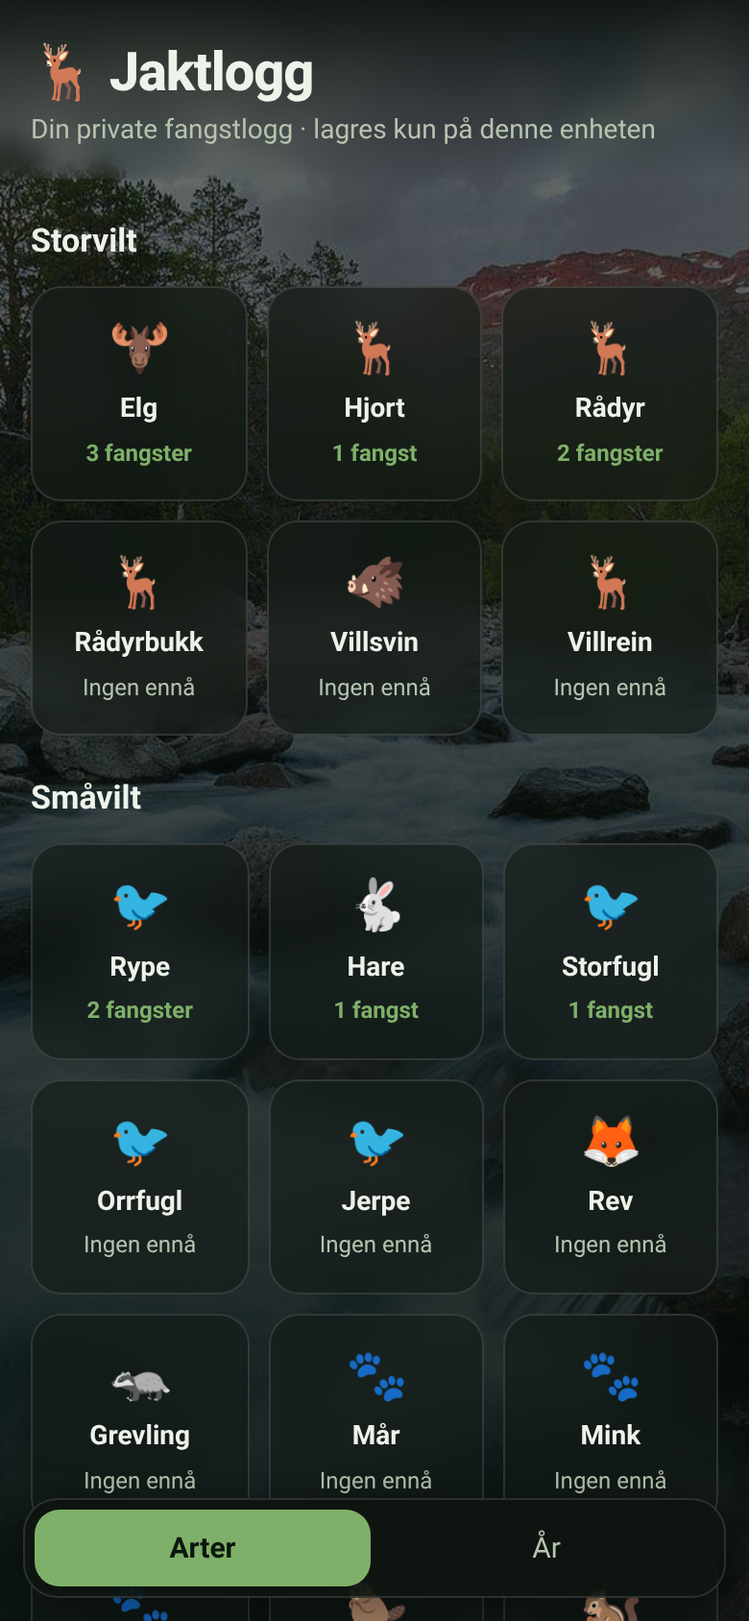
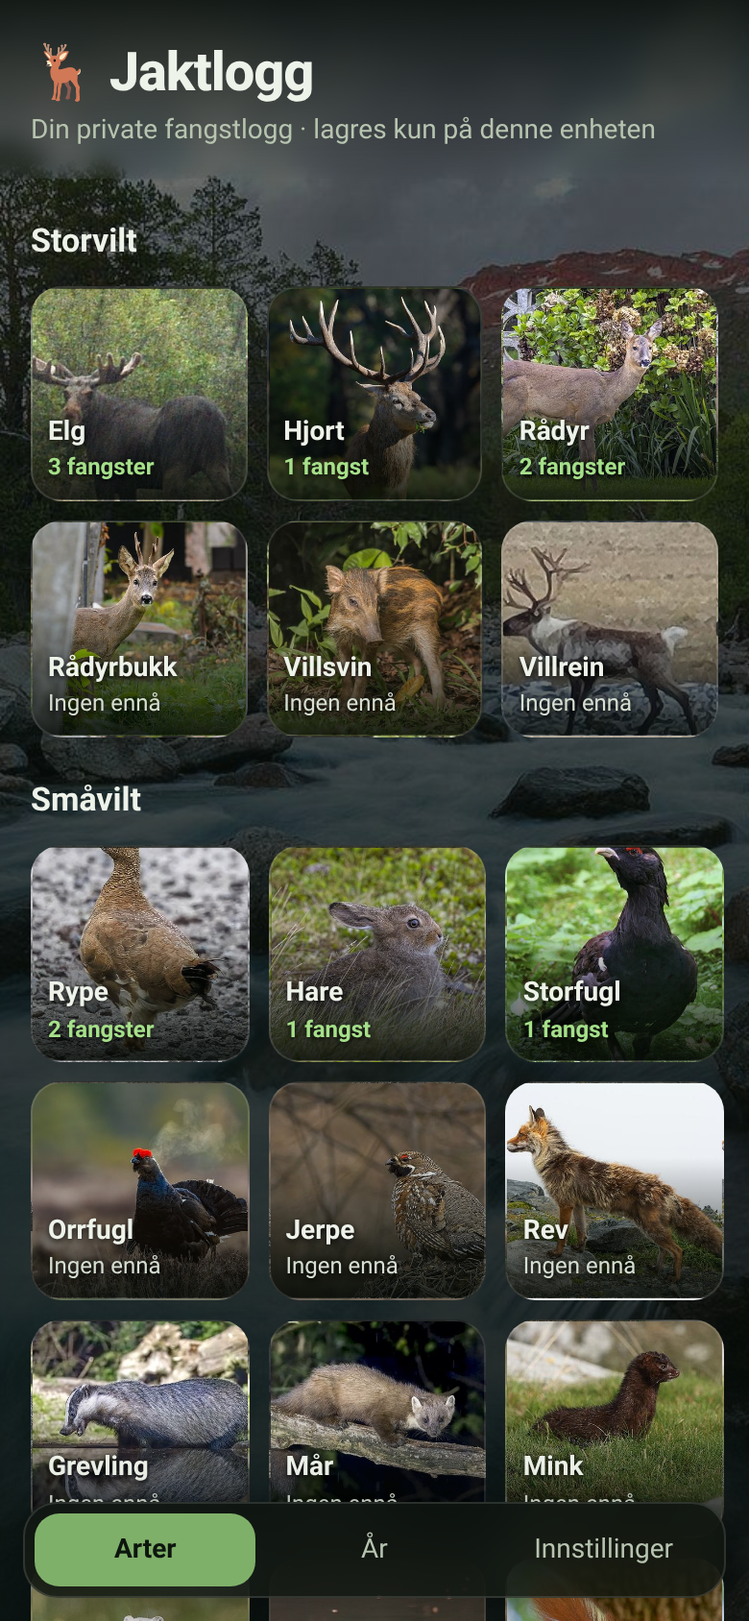
Ekte artsbilder med kreditter, valgfri privat Supabase-lagring (magic link, RLS, privat bildebøtte), Innstillinger og skjermbilder 08-10

diff --git a/index.html b/index.html
@@ -50,16 +50,19 @@ input[type=file]{padding:10px}input[type=date]{color-scheme:dark}
 .maprow{display:flex;gap:8px;margin-top:8px;align-items:center}.maprow .btn{width:auto;padding:9px 12px;font-size:14px}.maprow small{color:var(--m);font-size:12px;flex:1}
 .emk{font-size:22px;line-height:30px;text-align:center;background:rgba(14,20,15,.85);border:2px solid var(--g);border-radius:50%;width:34px!important;height:34px!important}
 .leaflet-popup-content{margin:8px;color:#111}.leaflet-popup-content img{width:150px;border-radius:8px;display:block;margin-bottom:4px}
+.tile.pic{aspect-ratio:1;background-size:cover;background-position:center;display:flex;flex-direction:column;justify-content:flex-end;padding:8px;text-align:left}
+.tile.pic b{margin:0;text-shadow:0 1px 3px #000}.tile.pic small{text-shadow:0 1px 3px #000;color:#d6dfd2}.tile.has.pic small{color:#a6e08a}
+.tile:not(.pic){aspect-ratio:1;display:flex;flex-direction:column;justify-content:center}.tabs button{font-size:14px;padding:11px 6px}
 </style></head><body><div class="app">
 <header><h1>🦌 Jaktlogg</h1><div class="sub" id="hsub">Din private fangstlogg · lagres kun på denne enheten</div></header>
 <main id="view"></main>
-<p class="credit">Bakgrunn: «River in the heart of Trollheimen mountains», Jakub Fryš, <a href="https://commons.wikimedia.org/wiki/File:River_in_the_heart_of_Trollheimen_mountains.jpg">Wikimedia Commons</a>, <a href="https://creativecommons.org/licenses/by-sa/4.0/">CC BY-SA 4.0</a></p>
-<nav class="tabs"><button id="t-arter" class="on">Arter</button><button id="t-ar">År</button></nav>
+<p class="credit"><a href="#" id="cr">Bildekreditter</a> · Bakgrunn: «River in the heart of Trollheimen mountains», Jakub Fryš, <a href="https://commons.wikimedia.org/wiki/File:River_in_the_heart_of_Trollheimen_mountains.jpg">Wikimedia Commons</a>, <a href="https://creativecommons.org/licenses/by-sa/4.0/">CC BY-SA 4.0</a></p>
+<nav class="tabs"><button id="t-arter" class="on">Arter</button><button id="t-ar">År</button><button id="t-inn">Innstillinger</button></nav>
 </div>
 <div class="modal" id="m"><div class="sheet" id="detail"></div></div>
 <script>
 /* ---------- Lagring: privat, på enheten (IndexedDB) ---------- */
-const Store={_db:null,
+const LocalStore={_db:null,
  open(){return this._db||(this._db=new Promise((ok,err)=>{const r=indexedDB.open('jaktlogg',1);r.onupgradeneeded=()=>r.result.createObjectStore('entries',{keyPath:'id'});r.onsuccess=()=>ok(r.result);r.onerror=()=>err(r.error)}))},
  async _tx(mode,fn){const db=await this.open();return new Promise((ok,err)=>{const t=db.transaction('entries',mode),s=t.objectStore('entries'),r=fn(s);t.oncomplete=()=>ok(r&&r.result);t.onerror=()=>err(t.error)})},
  list(){return this._tx('readonly',s=>s.getAll()).then(a=>a||[])},
@@ -83,15 +86,15 @@ function topo(el,opt){const m=L.map(el,Object.assign({zoomControl:true},opt||{})
  return m}
 const NORGE=[[57.9,4.5],[71.2,31.1]];
 const icon=sp=>L.divIcon({className:'emk',html:EMO[sp]||'📍',iconSize:[34,34],iconAnchor:[17,17]});
-let tab='arter',yearSel=null,group='art',pending=[];
+var SLUG,CREDITS;let tab='arter',yearSel=null,group='art',pending=[];
 
-function setTab(t){tab=t;$('t-arter').classList.toggle('on',t==='arter');$('t-ar').classList.toggle('on',t==='ar');t==='arter'?renderArter():renderAr()}
+function setTab(t){tab=t;['arter','ar','inn'].forEach(x=>$('t-'+x).classList.toggle('on',x===t));$('hsub').textContent=modeText();(t==='arter'?renderArter:t==='ar'?renderAr:renderSettings)()}
 $('t-arter').onclick=()=>setTab('arter');$('t-ar').onclick=()=>setTab('ar');
 
 async function renderArter(){const all=await Store.list(),c={};all.forEach(e=>c[e.species]=(c[e.species]||0)+1);
  const known=new Set(GROUPS.flatMap(g=>g[1].map(x=>x[0])));const other=all.filter(e=>!known.has(e.species)).length;
  $('view').innerHTML=GROUPS.map(([g,list])=>`<h2>${g}</h2><div class="tiles">`+list.map(([n,e])=>{const k=n==='Annet'?other:(c[n]||0);
-  return `<button class="tile ${k?'has':''}" data-s="${n}"><div class="e">${e}</div><b>${n}</b><small>${k?k+' fangst'+(k>1?'er':''):'Ingen ennå'}</small></button>`}).join('')+'</div>').join('');
+  const sl=SLUG[n];return `<button class="tile ${k?'has':''} ${sl?'pic':''}" data-s="${n}" ${sl?`style="background-image:linear-gradient(180deg,rgba(0,0,0,0) 35%,rgba(5,10,6,.88)),url(assets/species/${sl}.jpg)"`:''}>${sl?'':`<div class="e">${e}</div>`}<b>${n}</b><small>${k?k+' fangst'+(k>1?'er':''):'Ingen ennå'}</small></button>`}).join('')+'</div>').join('');
  document.querySelectorAll('.tile').forEach(t=>t.onclick=()=>renderSpecies(t.dataset.s));scrollTo(0,0)}
 
 async function renderSpecies(sp){const known=new Set(GROUPS.flatMap(g=>g[1].map(x=>x[0])));
@@ -162,5 +165,69 @@ async function renderAr(){const all=await Store.list();const years=[...new Set(a
   pts.length?ym.fitBounds(L.latLngBounds(pts.map(x=>[x.lat,x.lng])).pad(.3),{maxZoom:11}):ym.fitBounds(NORGE);
   $('ynote').textContent=`${pts.length} av ${e.length} fangster har kartposisjon`}}
 
-Store.migrate().then(renderArter);
+SLUG={'Elg':'elg','Hjort':'hjort','Rådyr':'radyr','Rådyrbukk':'radyrbukk','Villsvin':'villsvin','Villrein':'villrein','Rype':'rype','Hare':'hare','Storfugl':'storfugl','Orrfugl':'orrfugl','Jerpe':'jerpe','Rev':'rev','Grevling':'grevling','Mår':'mar','Mink':'mink','Røyskatt':'royskatt','Bever':'bever','Ekorn':'ekorn','Ender':'ender','Gjess':'gjess','Ærfugl':'aerfugl','Skarv':'skarv','Ringdue':'ringdue','Rugde':'rugde','Enkeltbekkasin':'enkeltbekkasin','Kråkefugler':'kraakefugler','Måker':'maker','Gråtrost':'graatrost','Fasan':'fasan'};
+CREDITS=[{"n": "Elg", "f": "assets/species/elg.jpg", "a": "Ryan Hodnett", "l": "CC BY-SA 4.0", "lu": "https://creativecommons.org/licenses/by-sa/4.0", "u": "https://commons.wikimedia.org/wiki/File:European_Elk_(Europeisk_Elg)_(Alces_alces_alces)_-_Bod%C3%B8,_Norway_2023-07-16.jpg", "t": "European Elk (Europeisk Elg) (Alces alces alces) - Bodø, Norway 2023-07-16.jpg"}, {"n": "Hjort", "f": "assets/species/hjort.jpg", "a": "Julian Herzog (Website)", "l": "CC BY 4.0", "lu": "https://creativecommons.org/licenses/by/4.0", "u": "https://commons.wikimedia.org/wiki/File:Red_Deer_Cervus_Elaphus_Richmond_Park_2025_01.jpg", "t": "Red Deer Cervus Elaphus Richmond Park 2025 01.jpg"}, {"n": "Rådyr", "f": "assets/species/radyr.jpg", "a": "Charles J. Sharp", "l": "CC BY-SA 4.0", "lu": "https://creativecommons.org/licenses/by-sa/4.0", "u": "https://commons.wikimedia.org/wiki/File:Roe_deer_(Capreolus_capreolus)_female_Cumnor.jpg", "t": "Roe deer (Capreolus capreolus) female Cumnor.jpg"}, {"n": "Rådyrbukk", "f": "assets/species/radyrbukk.jpg", "a": "Uoaei1", "l": "CC BY-SA 4.0", "lu": "https://creativecommons.org/licenses/by-sa/4.0", "u": "https://commons.wikimedia.org/wiki/File:Capreolus_capreolus_Wien_Zentralfriedhof_20221021_06.jpg", "t": "Capreolus capreolus Wien Zentralfriedhof 20221021 06.jpg"}, {"n": "Villsvin", "f": "assets/species/villsvin.jpg", "a": "Charles J. Sharp", "l": "CC BY-SA 4.0", "lu": "https://creativecommons.org/licenses/by-sa/4.0", "u": "https://commons.wikimedia.org/wiki/File:Wild_boar_(Sus_scrofa_vittatus)_juvenile.jpg", "t": "Wild boar (Sus scrofa vittatus) juvenile.jpg"}, {"n": "Villrein", "f": "assets/species/villrein.jpg", "a": "Pentti Impiö", "l": "CC BY 4.0", "lu": "https://creativecommons.org/licenses/by/4.0", "u": "https://commons.wikimedia.org/wiki/File:Rangifer_tarandus_fennicus_245142390.jpg", "t": "Rangifer tarandus fennicus 245142390.jpg"}, {"n": "Rype", "f": "assets/species/rype.jpg", "a": "Charles J. Sharp", "l": "CC BY-SA 4.0", "lu": "https://creativecommons.org/licenses/by-sa/4.0", "u": "https://commons.wikimedia.org/wiki/File:Rock_ptarmigan_(Lagopus_muta_islandorum)_female_breeding_Botnsvatn.jpg", "t": "Rock ptarmigan (Lagopus muta islandorum) female breeding Botnsvatn.jpg"}, {"n": "Hare", "f": "assets/species/hare.jpg", "a": "Charles J. Sharp", "l": "CC BY-SA 4.0", "lu": "https://creativecommons.org/licenses/by-sa/4.0", "u": "https://commons.wikimedia.org/wiki/File:Mountain_hare_(Lepus_timidus)_Oppdal.jpg", "t": "Mountain hare (Lepus timidus) Oppdal.jpg"}, {"n": "Storfugl", "f": "assets/species/storfugl.jpg", "a": "Richard Bartz, Munich aka Makro Freak", "l": "CC BY-SA 2.5", "lu": "https://creativecommons.org/licenses/by-sa/2.5", "u": "https://commons.wikimedia.org/wiki/File:Tetrao_urogallus_Richard_Bartz.jpg", "t": "Tetrao urogallus Richard Bartz.jpg"}, {"n": "Orrfugl", "f": "assets/species/orrfugl.jpg", "a": "Spjutkastare", "l": "CC BY-SA 4.0", "lu": "https://creativecommons.org/licenses/by-sa/4.0", "u": "https://commons.wikimedia.org/wiki/File:Orrtuppen.jpg", "t": "Orrtuppen.jpg"}, {"n": "Jerpe", "f": "assets/species/jerpe.jpg", "a": "Chinmay Rahane", "l": "CC BY-SA 4.0", "lu": "https://creativecommons.org/licenses/by-sa/4.0", "u": "https://commons.wikimedia.org/wiki/File:Hazel_Grouse.jpg", "t": "Hazel Grouse.jpg"}, {"n": "Rev", "f": "assets/species/rev.jpg", "a": "Uoaei1", "l": "CC BY-SA 4.0", "lu": "https://creativecommons.org/licenses/by-sa/4.0", "u": "https://commons.wikimedia.org/wiki/File:Vulpes_vulpes_Mallnitz_01.jpg", "t": "Vulpes vulpes Mallnitz 01.jpg"}, {"n": "Grevling", "f": "assets/species/grevling.jpg", "a": "Charles J. Sharp", "l": "CC BY-SA 4.0", "lu": "https://creativecommons.org/licenses/by-sa/4.0", "u": "https://commons.wikimedia.org/wiki/File:European_badger_(Meles_meles_taxus)_Drenthe_2.jpg", "t": "European badger (Meles meles taxus) Drenthe 2.jpg"}, {"n": "Mår", "f": "assets/species/mar.jpg", "a": "Charles J. Sharp", "l": "CC BY-SA 4.0", "lu": "https://creativecommons.org/licenses/by-sa/4.0", "u": "https://commons.wikimedia.org/wiki/File:European_pine_marten_(Martes_martes)_Drenthe_2.jpg", "t": "European pine marten (Martes martes) Drenthe 2.jpg"}, {"n": "Mink", "f": "assets/species/mink.jpg", "a": "Marton Berntsen", "l": "CC BY-SA 3.0", "lu": "https://creativecommons.org/licenses/by-sa/3.0", "u": "https://commons.wikimedia.org/wiki/File:Mink_(Neovison_vison).jpg", "t": "Mink (Neovison vison).jpg"}, {"n": "Røyskatt", "f": "assets/species/royskatt.jpg", "a": "Giles Laurent", "l": "CC BY-SA 4.0", "lu": "https://creativecommons.org/licenses/by-sa/4.0", "u": "https://commons.wikimedia.org/wiki/File:035_Stoat_in_winter_coat_in_Parc_naturel_r%C3%A9gional_Jura_vaudois_Photo_by_Giles_Laurent.jpg", "t": "035 Stoat in winter coat in Parc naturel régional Jura vaudois Photo by Giles Laurent.jpg"}, {"n": "Bever", "f": "assets/species/bever.jpg", "a": "Ryzhkov Sergey", "l": "CC BY-SA 4.0", "lu": "https://creativecommons.org/licenses/by-sa/4.0", "u": "https://commons.wikimedia.org/wiki/File:%D0%A0%D1%96%D1%87%D0%BA%D0%BE%D0%B2%D0%B8%D0%B9_%D0%B1%D0%BE%D0%B1%D0%B5%D1%80_(Castor_fiber).jpg", "t": "Річковий бобер (Castor fiber).jpg"}, {"n": "Ekorn", "f": "assets/species/ekorn.jpg", "a": "Rhododendrites", "l": "CC BY-SA 4.0", "lu": "https://creativecommons.org/licenses/by-sa/4.0", "u": "https://commons.wikimedia.org/wiki/File:Red_squirrel_(21808).jpg", "t": "Red squirrel (21808).jpg"}, {"n": "Ender", "f": "assets/species/ender.jpg", "a": "This picture was realized by Richard Bartz by using a Canon EF 70-300mm f/4-5.6 IS USM Lens", "l": "CC BY-SA 2.5", "lu": "https://creativecommons.org/licenses/by-sa/2.5", "u": "https://commons.wikimedia.org/wiki/File:Anas_platyrhynchos_male_female.jpg", "t": "Anas platyrhynchos male female.jpg"}, {"n": "Gjess", "f": "assets/species/gjess.jpg", "a": "H005, denoised by Pro2", "l": "Public domain", "lu": "", "u": "https://commons.wikimedia.org/wiki/File:Graugans_Anser_Anser.jpg", "t": "Graugans Anser Anser.jpg"}, {"n": "Ærfugl", "f": "assets/species/aerfugl.jpg", "a": "Stephan Sprinz", "l": "CC BY 4.0", "lu": "https://creativecommons.org/licenses/by/4.0", "u": "https://commons.wikimedia.org/wiki/File:Portrait_einer_m%C3%A4nnlichen_Eiderente_(Somateria_mollissima)_auf_Norderney.jpg", "t": "Portrait einer männlichen Eiderente (Somateria mollissima) auf Norderney.jpg"}, {"n": "Skarv", "f": "assets/species/skarv.jpg", "a": "Christian Ferrer", "l": "CC BY-SA 4.0", "lu": "https://creativecommons.org/licenses/by-sa/4.0", "u": "https://commons.wikimedia.org/wiki/File:Phalacrocorax_carbo,_H%C3%A9rault_River_cf01.jpg", "t": "Phalacrocorax carbo, Hérault River cf01.jpg"}, {"n": "Ringdue", "f": "assets/species/ringdue.jpg", "a": "Alexis LOURS", "l": "CC BY 2.0", "lu": "https://creativecommons.org/licenses/by/2.0", "u": "https://commons.wikimedia.org/wiki/File:Common_Wood_Pigeon_facing_left.jpg", "t": "Common Wood Pigeon facing left.jpg"}, {"n": "Rugde", "f": "assets/species/rugde.jpg", "a": "Stephan Sprinz", "l": "CC BY-SA 4.0", "lu": "https://creativecommons.org/licenses/by-sa/4.0", "u": "https://commons.wikimedia.org/wiki/File:Waldschnepfe_(scolopax_rusticola)_-_Spiekeroog,_Nationalpark_Nieders%C3%A4chsisches_Wattenmeer.jpg", "t": "Waldschnepfe (scolopax rusticola) - Spiekeroog, Nationalpark Niedersächsisches Wattenmeer.jpg"}, {"n": "Enkeltbekkasin", "f": "assets/species/enkeltbekkasin.jpg", "a": "Charles J. Sharp", "l": "CC BY-SA 4.0", "lu": "https://creativecommons.org/licenses/by-sa/4.0", "u": "https://commons.wikimedia.org/wiki/File:Common_snipe_(Gallinago_gallinago_faeroeensis)_Botnsvatn.jpg", "t": "Common snipe (Gallinago gallinago faeroeensis) Botnsvatn.jpg"}, {"n": "Kråkefugler", "f": "assets/species/kraakefugler.jpg", "a": "Petar Milošević", "l": "CC BY-SA 4.0", "lu": "https://creativecommons.org/licenses/by-sa/4.0", "u": "https://commons.wikimedia.org/wiki/File:Hooded_crow_(Corvus_cornix)_at_Gulf_of_Trieste.jpg", "t": "Hooded crow (Corvus cornix) at Gulf of Trieste.jpg"}, {"n": "Måker", "f": "assets/species/maker.jpg", "a": "Ввласенко", "l": "CC BY-SA 3.0", "lu": "https://creativecommons.org/licenses/by-sa/3.0", "u": "https://commons.wikimedia.org/wiki/File:Head_of_European_herring_gull_(Larus_argentatus)._Saint-Malo,_France.jpg", "t": "Head of European herring gull (Larus argentatus). Saint-Malo, France.jpg"}, {"n": "Gråtrost", "f": "assets/species/graatrost.jpg", "a": "Anaxibia (Andrey Polstianoi)", "l": "CC BY-SA 4.0", "lu": "https://creativecommons.org/licenses/by-sa/4.0", "u": "https://commons.wikimedia.org/wiki/File:Turdus_pilaris_on_Crataegus_in_winter.jpg", "t": "Turdus pilaris on Crataegus in winter.jpg"}, {"n": "Fasan", "f": "assets/species/fasan.jpg", "a": "Charles J. Sharp", "l": "CC BY-SA 4.0", "lu": "https://creativecommons.org/licenses/by-sa/4.0", "u": "https://commons.wikimedia.org/wiki/File:Common_pheasant_(Phasianus_colchicus)_male_3.jpg", "t": "Common pheasant (Phasianus colchicus) male 3.jpg"}];
+function showCredits(){$('detail').innerHTML=`<h2 style="margin-top:0">Bildekreditter</h2><p>Bakgrunn: «River in the heart of Trollheimen mountains», Jakub Fryš, <a href="https://commons.wikimedia.org/wiki/File:River_in_the_heart_of_Trollheimen_mountains.jpg">Wikimedia Commons</a>, CC BY-SA 4.0.</p><p>Artsbilder fra Wikimedia Commons, beskåret og komprimert:</p>`+
+ CREDITS.map(c=>`<p style="display:flex;gap:10px;align-items:center"><img src="${c.f}" alt="" style="width:44px;height:44px;border-radius:8px;flex:none"><span><b>${esc(c.n)}</b>: ${esc(c.a)}, <a href="${c.lu||c.u}">${esc(c.l)}</a>, <a href="${c.u}">kilde</a></span></p>`).join('')+
+ `<p>Kart: © Kartverket (fallback © OpenTopoMap, © OpenStreetMap).</p><button class="btn sec" id="close">Lukk</button>`;$('m').classList.add('open');$('close').onclick=()=>$('m').classList.remove('open')}
+
+/* ---------- Supabase (valgfritt, personlig) ---------- */
+const CFG_KEY='jaktlogg.supabase';let sb=null,sbUser=null;
+const cfg=()=>{try{return JSON.parse(localStorage.getItem(CFG_KEY)||'null')}catch(e){return null}};
+function keyRole(k){if(/^sb_secret_/.test(k))return 'service_role';try{return JSON.parse(atob(k.split('.')[1].replace(/-/g,'+').replace(/_/g,'/'))).role}catch(e){return /^sb_publishable_/.test(k)?'anon':null}}
+function loadLib(){return window.supabase?Promise.resolve():new Promise((ok,err)=>{const t=document.createElement('script');t.src='https://cdn.jsdelivr.net/npm/@supabase/supabase-js@2';t.onload=ok;t.onerror=()=>err(new Error('Kunne ikke laste supabase-js'));document.head.appendChild(t)})}
+const isoToLocal=iso=>{const d=new Date(iso);return new Date(d-d.getTimezoneOffset()*6e4).toISOString().slice(0,16)};
+const SupabaseStore={
+ async list(){const{data,error}=await sb.from('entries').select('*').order('taken_at',{ascending:false});if(error)throw error;
+  const paths=data.flatMap(r=>r.photos||[]),url={};
+  if(paths.length){const{data:sig,error:e2}=await sb.storage.from('photos').createSignedUrls(paths,3600);if(e2)throw e2;sig.forEach(x=>url[x.path]=x.signedUrl)}
+  return data.map(r=>({id:r.id,species:r.species,datetime:isoToLocal(r.taken_at),sted:r.sted||'',notes:r.notes||'',photos:(r.photos||[]).map(p=>url[p]).filter(Boolean),...(r.lat!=null?{lat:r.lat,lng:r.lng}:{})}))},
+ async add(e){const id=crypto.randomUUID(),paths=[];
+  for(const [i,p] of e.photos.entries()){const blob=await (await fetch(p)).blob(),path=`${sbUser.id}/${id}/${i+1}.jpg`;
+   const{error}=await sb.storage.from('photos').upload(path,blob,{contentType:'image/jpeg',upsert:false});if(error)throw error;paths.push(path)}
+  const{error}=await sb.from('entries').insert({id,species:e.species,taken_at:new Date(e.datetime).toISOString(),sted:e.sted||null,lat:e.lat??null,lng:e.lng??null,notes:e.notes||null,photos:paths});if(error)throw error},
+ async delete(id){const{data}=await sb.from('entries').select('photos').eq('id',id).single();
+  if(data&&data.photos&&data.photos.length)await sb.storage.from('photos').remove(data.photos);
+  const{error}=await sb.from('entries').delete().eq('id',id);if(error)throw error}};
+let Store=LocalStore;
+async function initBackend(){const c=cfg();sb=null;sbUser=null;Store=LocalStore;if(!c)return 'local';
+ try{await loadLib();sb=window.supabase.createClient(c.url,c.key,{auth:{persistSession:true,detectSessionInUrl:true}});
+  const{data}=await sb.auth.getSession();sbUser=data.session&&data.session.user;
+  sb.auth.onAuthStateChange((_e,sess)=>{const was=!!sbUser;sbUser=sess&&sess.user;Store=sbUser?SupabaseStore:LocalStore;if(was!==!!sbUser)setTab(tab)});
+  if(sbUser){Store=SupabaseStore;return 'server'}return 'login'}catch(e){console.warn(e);return 'local'}}
+const modeText=()=>sbUser?`Lagres privat på din server · ${esc(sbUser.email)}`:(cfg()?'Ikke innlogget · lagres kun på denne enheten':'Din private fangstlogg · lagres kun på denne enheten');
+
+async function renderSettings(){const c=cfg()||{url:'',key:''};const n=(await LocalStore.list()).length;
+ $('view').innerHTML=`<div class="panel"><h2 style="margin-top:0">Innstillinger</h2>
+ <p class="muted" style="color:var(--m);font-size:14px;margin:0">Valgfritt: koble appen til ditt eget Supabase-prosjekt for å lagre fangstene privat på server og få dem på flere enheter. Uten dette lagres alt kun på denne enheten.</p>
+ <label>Project URL<input id="su" placeholder="https://xxxx.supabase.co" value="${esc(c.url)}"></label>
+ <label>Anon / publishable key<textarea id="sk" rows="3" placeholder="eyJ… eller sb_publishable_…">${esc(c.key)}</textarea></label>
+ <p style="color:var(--m);font-size:12px">Bruk kun den offentlige anon-nøkkelen. Lim aldri inn service_role- eller secret-nøkkelen.</p>
+ <div class="maprow"><button class="btn" id="ss" style="flex:1">Lagre</button>${cfg()?'<button class="btn sec" id="sx">Koble fra</button>':''}</div><p id="smsg" style="font-size:14px;color:var(--m)"></p></div>
+ <div class="panel" style="margin-top:14px"><h2 style="margin-top:0">Konto</h2><p style="color:var(--m);font-size:14px;margin:0 0 10px">${modeText()}</p>
+ ${!cfg()?'<p style="font-size:14px;color:var(--m)">Legg inn Project URL og nøkkel over for å kunne logge inn.</p>':sbUser?`<button class="btn sec" id="lo">Logg ut</button>${n?`<button class="btn" id="mig" style="margin-top:8px">Flytt lokale fangster til server (${n})</button>`:''}<p id="mmsg" style="font-size:14px;color:var(--m)"></p>`:'<button class="btn" id="li">Logg inn</button>'}</div>`;
+ $('ss').onclick=async()=>{const url=$('su').value.trim().replace(/\/+$/,''),key=$('sk').value.trim();
+  if(!/^https:\/\/.+/.test(url)||!key){$('smsg').textContent='Fyll inn både URL og nøkkel.';return}
+  if(keyRole(key)==='service_role'){$('smsg').textContent='Dette er en service_role/secret-nøkkel. Den skal aldri brukes i appen. Bruk anon-nøkkelen.';return}
+  localStorage.setItem(CFG_KEY,JSON.stringify({url,key}));const m=await initBackend();$('smsg').textContent=m==='local'?'Kunne ikke koble til. Sjekk URL og nøkkel.':'Lagret.';if(m==='login')renderLogin();else renderSettings()};
+ if($('sx'))$('sx').onclick=async()=>{if(sb)await sb.auth.signOut().catch(()=>{});localStorage.removeItem(CFG_KEY);await initBackend();renderSettings();$('hsub').textContent=modeText()};
+ if($('li'))$('li').onclick=renderLogin;
+ if($('lo'))$('lo').onclick=async()=>{await sb.auth.signOut();sbUser=null;Store=LocalStore;renderSettings();$('hsub').textContent=modeText()};
+ if($('mig'))$('mig').onclick=async()=>{if(!confirm(`Flytte ${n} lokale fangster til serveren? De slettes fra enheten når de er lastet opp.`))return;
+  const list=await LocalStore.list();let ok=0;for(const e of list){try{$('mmsg').textContent=`Laster opp ${ok+1} av ${list.length} …`;await SupabaseStore.add(e);await LocalStore.delete(e.id);ok++}catch(err){$('mmsg').textContent=`Stoppet etter ${ok}: ${err.message}`;return}}
+  $('mmsg').textContent=`Ferdig: ${ok} fangster flyttet.`;setTimeout(renderSettings,1200)};
+ $('hsub').textContent=modeText();scrollTo(0,0)}
+
+function renderLogin(){$('view').innerHTML=`<div class="panel"><h2 style="margin-top:0">Logg inn</h2>
+ <p style="color:var(--m);font-size:14px;margin:0">Skriv inn e-posten din, så får du en innloggingslenke. Fangstene dine er private og bare synlige for deg.</p>
+ <form id="lf"><label>E-post<input id="em" type="email" required placeholder="navn@eksempel.no" autocomplete="email"></label>
+ <button class="btn" style="margin-top:14px">Send innloggingslenke</button></form><p id="lmsg" style="font-size:14px;color:var(--m)"></p>
+ <button class="btn sec" id="lb" style="margin-top:6px">Fortsett uten innlogging (kun på denne enheten)</button></div>`;
+ $('lb').onclick=()=>setTab('arter');
+ $('lf').onsubmit=async ev=>{ev.preventDefault();if(!sb){$('lmsg').textContent='Supabase er ikke satt opp under Innstillinger.';return}
+  $('lmsg').textContent='Sender …';const{error}=await sb.auth.signInWithOtp({email:$('em').value.trim(),options:{emailRedirectTo:location.origin+location.pathname}});
+  $('lmsg').textContent=error?'Feil: '+error.message:'Sjekk e-posten din og trykk på lenken for å logge inn.'};scrollTo(0,0)}
+
+$('t-inn').onclick=()=>setTab('inn');$('cr').onclick=e=>{e.preventDefault();showCredits()};
+(async()=>{await LocalStore.migrate();const m=await initBackend();$('hsub').textContent=modeText();m==='login'?(tab='inn',['arter','ar','inn'].forEach(x=>$('t-'+x).classList.toggle('on',x==='inn')),renderLogin()):renderArter()})();
 </script></body></html>

diff --git a/README.md b/README.md
@@ -2,15 +2,64 @@
 
 En enkel jakt-app (prototype) der du logger bilder av alt du har skutt i løpet av sesongen.
 
-- **Arter:** oversikt over Storvilt og Småvilt (arter med jakttid i [FOR-2022-01-21-128](https://lovdata.no/dokument/SF/forskrift/2022-01-21-128)), med antall fangster per art. Trykk på en art for å se fangstene og legge til ny: sted (valgfritt), dato og tid, flere bilder, notater.
-- **År:** velg år, se totalt antall og fangstene per art eller per måned. Trykk på en fangst for bildegalleri (sveip) og sletting.
+- **Arter:** oversikt over Storvilt og Småvilt (arter med jakttid i [FOR-2022-01-21-128](https://lovdata.no/dokument/SF/forskrift/2022-01-21-128)), med antall fangster per art. Trykk på en art for å se fangstene og legge til ny: sted (valgfritt), posisjon på topografisk kart (trykk eller «Bruk min posisjon»), dato og tid, flere bilder, notater. Hver art har et ekte viltbilde (se Bildekreditter).
+- **År:** velg år, se totalt antall og fangstene per art, per måned eller på kart. Trykk på en fangst for bildegalleri (sveip) og sletting.
 
-**Kjøre:** åpne `index.html` i en nettleser (ingen byggesteg), eller se live på https://haraldsandvik98-cpu.github.io/jaktapp/. Appen er privat: fangster og bilder lagres kun på enheten (IndexedDB i nettleseren), ikke på en server.
+**Kjøre:** åpne `index.html` i en nettleser (ingen byggesteg), eller se live på https://haraldsandvik98-cpu.github.io/jaktapp/. Appen er privat: som standard lagres fangster og bilder kun på enheten (IndexedDB i nettleseren). Valgfritt kan du koble til ditt eget Supabase-prosjekt (se under).
 
 Skjermbildene i `docs/screenshots/` bruker genererte eksempelfangster (illustrasjoner, ikke ekte bilder) som kun legges inn av skjermbilde-skriptet.
 
 Flere krav kommer – appen bygges videre etter hvert.
 
-## Bildekreditering
+## Lagring på server (valgfritt, Supabase)
+
+Uten oppsett lagres alt kun på enheten. Vil du ha fangstene privat på en server (og på flere enheter), kan du koble til ditt eget gratis Supabase-prosjekt:
+
+1. Gå til [supabase.com](https://supabase.com), lag en gratis konto og trykk **New project**. Velg navn, passord til databasen og region (f.eks. Stockholm/Frankfurt).
+2. Åpne **SQL Editor** i prosjektet, lim inn hele innholdet i [`supabase/schema.sql`](supabase/schema.sql) og trykk **Run**. Dette lager tabellen `entries` med radnivåsikkerhet (RLS) og en privat bildebøtte `photos` der hver bruker kun når sine egne filer.
+3. Gå til **Authentication → URL Configuration**: sett **Site URL** til `https://haraldsandvik98-cpu.github.io/jaktapp/` og legg samme adresse til under **Redirect URLs**. E-post-innlogging (magic link) er på som standard under **Authentication → Providers → Email**.
+4. Gå til **Project Settings → API** (eller **API Keys**) og kopier **Project URL** og **anon / publishable key**. Bruk aldri `service_role`/secret-nøkkelen i appen. Appen avviser den.
+5. Åpne appen → **Innstillinger**, lim inn URL og nøkkel og trykk **Lagre**. Logg inn med e-post og trykk på lenken du får.
+6. Har du fangster lagret lokalt fra før, trykk **Flytt lokale fangster til server** under Innstillinger.
+
+Anon-nøkkelen er offentlig etter design. Det er RLS-reglene i `schema.sql` som sørger for at bare du ser dine fangster og bilder.
+
+## Bildekreditter
 
 Bakgrunn (`assets/bg.jpg`): «River in the heart of Trollheimen mountains» av Jakub Fryš, [Wikimedia Commons](https://commons.wikimedia.org/wiki/File:River_in_the_heart_of_Trollheimen_mountains.jpg), lisens [CC BY-SA 4.0](https://creativecommons.org/licenses/by-sa/4.0/). Nedskalert og komprimert.
+
+### Artsbilder (`assets/species/`)
+
+Alle fra Wikimedia Commons, beskåret til kvadrat og komprimert (endret).
+
+| Art | Fil | Fotograf | Lisens |
+|---|---|---|---|
+| Elg | [European Elk (Europeisk Elg) (Alces alces alces) - Bodø, Norway 2023-07-16.jpg](https://commons.wikimedia.org/wiki/File:European_Elk_(Europeisk_Elg)_(Alces_alces_alces)_-_Bod%C3%B8,_Norway_2023-07-16.jpg) | Ryan Hodnett | [CC BY-SA 4.0](https://creativecommons.org/licenses/by-sa/4.0) |
+| Hjort | [Red Deer Cervus Elaphus Richmond Park 2025 01.jpg](https://commons.wikimedia.org/wiki/File:Red_Deer_Cervus_Elaphus_Richmond_Park_2025_01.jpg) | Julian Herzog (Website) | [CC BY 4.0](https://creativecommons.org/licenses/by/4.0) |
+| Rådyr | [Roe deer (Capreolus capreolus) female Cumnor.jpg](https://commons.wikimedia.org/wiki/File:Roe_deer_(Capreolus_capreolus)_female_Cumnor.jpg) | Charles J. Sharp | [CC BY-SA 4.0](https://creativecommons.org/licenses/by-sa/4.0) |
+| Rådyrbukk | [Capreolus capreolus Wien Zentralfriedhof 20221021 06.jpg](https://commons.wikimedia.org/wiki/File:Capreolus_capreolus_Wien_Zentralfriedhof_20221021_06.jpg) | Uoaei1 | [CC BY-SA 4.0](https://creativecommons.org/licenses/by-sa/4.0) |
+| Villsvin | [Wild boar (Sus scrofa vittatus) juvenile.jpg](https://commons.wikimedia.org/wiki/File:Wild_boar_(Sus_scrofa_vittatus)_juvenile.jpg) | Charles J. Sharp | [CC BY-SA 4.0](https://creativecommons.org/licenses/by-sa/4.0) |
+| Villrein | [Rangifer tarandus fennicus 245142390.jpg](https://commons.wikimedia.org/wiki/File:Rangifer_tarandus_fennicus_245142390.jpg) | Pentti Impiö | [CC BY 4.0](https://creativecommons.org/licenses/by/4.0) |
+| Rype | [Rock ptarmigan (Lagopus muta islandorum) female breeding Botnsvatn.jpg](https://commons.wikimedia.org/wiki/File:Rock_ptarmigan_(Lagopus_muta_islandorum)_female_breeding_Botnsvatn.jpg) | Charles J. Sharp | [CC BY-SA 4.0](https://creativecommons.org/licenses/by-sa/4.0) |
+| Hare | [Mountain hare (Lepus timidus) Oppdal.jpg](https://commons.wikimedia.org/wiki/File:Mountain_hare_(Lepus_timidus)_Oppdal.jpg) | Charles J. Sharp | [CC BY-SA 4.0](https://creativecommons.org/licenses/by-sa/4.0) |
+| Storfugl | [Tetrao urogallus Richard Bartz.jpg](https://commons.wikimedia.org/wiki/File:Tetrao_urogallus_Richard_Bartz.jpg) | Richard Bartz, Munich aka Makro Freak | [CC BY-SA 2.5](https://creativecommons.org/licenses/by-sa/2.5) |
+| Orrfugl | [Orrtuppen.jpg](https://commons.wikimedia.org/wiki/File:Orrtuppen.jpg) | Spjutkastare | [CC BY-SA 4.0](https://creativecommons.org/licenses/by-sa/4.0) |
+| Jerpe | [Hazel Grouse.jpg](https://commons.wikimedia.org/wiki/File:Hazel_Grouse.jpg) | Chinmay Rahane | [CC BY-SA 4.0](https://creativecommons.org/licenses/by-sa/4.0) |
+| Rev | [Vulpes vulpes Mallnitz 01.jpg](https://commons.wikimedia.org/wiki/File:Vulpes_vulpes_Mallnitz_01.jpg) | Uoaei1 | [CC BY-SA 4.0](https://creativecommons.org/licenses/by-sa/4.0) |
+| Grevling | [European badger (Meles meles taxus) Drenthe 2.jpg](https://commons.wikimedia.org/wiki/File:European_badger_(Meles_meles_taxus)_Drenthe_2.jpg) | Charles J. Sharp | [CC BY-SA 4.0](https://creativecommons.org/licenses/by-sa/4.0) |
+| Mår | [European pine marten (Martes martes) Drenthe 2.jpg](https://commons.wikimedia.org/wiki/File:European_pine_marten_(Martes_martes)_Drenthe_2.jpg) | Charles J. Sharp | [CC BY-SA 4.0](https://creativecommons.org/licenses/by-sa/4.0) |
+| Mink | [Mink (Neovison vison).jpg](https://commons.wikimedia.org/wiki/File:Mink_(Neovison_vison).jpg) | Marton Berntsen | [CC BY-SA 3.0](https://creativecommons.org/licenses/by-sa/3.0) |
+| Røyskatt | [035 Stoat in winter coat in Parc naturel régional Jura vaudois Photo by Giles Laurent.jpg](https://commons.wikimedia.org/wiki/File:035_Stoat_in_winter_coat_in_Parc_naturel_r%C3%A9gional_Jura_vaudois_Photo_by_Giles_Laurent.jpg) | Giles Laurent | [CC BY-SA 4.0](https://creativecommons.org/licenses/by-sa/4.0) |
+| Bever | [Річковий бобер (Castor fiber).jpg](https://commons.wikimedia.org/wiki/File:%D0%A0%D1%96%D1%87%D0%BA%D0%BE%D0%B2%D0%B8%D0%B9_%D0%B1%D0%BE%D0%B1%D0%B5%D1%80_(Castor_fiber).jpg) | Ryzhkov Sergey | [CC BY-SA 4.0](https://creativecommons.org/licenses/by-sa/4.0) |
+| Ekorn | [Red squirrel (21808).jpg](https://commons.wikimedia.org/wiki/File:Red_squirrel_(21808).jpg) | Rhododendrites | [CC BY-SA 4.0](https://creativecommons.org/licenses/by-sa/4.0) |
+| Ender | [Anas platyrhynchos male female.jpg](https://commons.wikimedia.org/wiki/File:Anas_platyrhynchos_male_female.jpg) | This picture was realized by Richard Bartz by using a Canon EF 70-300mm f/4-5.6 IS USM Lens | [CC BY-SA 2.5](https://creativecommons.org/licenses/by-sa/2.5) |
+| Gjess | [Graugans Anser Anser.jpg](https://commons.wikimedia.org/wiki/File:Graugans_Anser_Anser.jpg) | H005, denoised by Pro2 | Public domain |
+| Ærfugl | [Portrait einer männlichen Eiderente (Somateria mollissima) auf Norderney.jpg](https://commons.wikimedia.org/wiki/File:Portrait_einer_m%C3%A4nnlichen_Eiderente_(Somateria_mollissima)_auf_Norderney.jpg) | Stephan Sprinz | [CC BY 4.0](https://creativecommons.org/licenses/by/4.0) |
+| Skarv | [Phalacrocorax carbo, Hérault River cf01.jpg](https://commons.wikimedia.org/wiki/File:Phalacrocorax_carbo,_H%C3%A9rault_River_cf01.jpg) | Christian Ferrer | [CC BY-SA 4.0](https://creativecommons.org/licenses/by-sa/4.0) |
+| Ringdue | [Common Wood Pigeon facing left.jpg](https://commons.wikimedia.org/wiki/File:Common_Wood_Pigeon_facing_left.jpg) | Alexis LOURS | [CC BY 2.0](https://creativecommons.org/licenses/by/2.0) |
+| Rugde | [Waldschnepfe (scolopax rusticola) - Spiekeroog, Nationalpark Niedersächsisches Wattenmeer.jpg](https://commons.wikimedia.org/wiki/File:Waldschnepfe_(scolopax_rusticola)_-_Spiekeroog,_Nationalpark_Nieders%C3%A4chsisches_Wattenmeer.jpg) | Stephan Sprinz | [CC BY-SA 4.0](https://creativecommons.org/licenses/by-sa/4.0) |
+| Enkeltbekkasin | [Common snipe (Gallinago gallinago faeroeensis) Botnsvatn.jpg](https://commons.wikimedia.org/wiki/File:Common_snipe_(Gallinago_gallinago_faeroeensis)_Botnsvatn.jpg) | Charles J. Sharp | [CC BY-SA 4.0](https://creativecommons.org/licenses/by-sa/4.0) |
+| Kråkefugler | [Hooded crow (Corvus cornix) at Gulf of Trieste.jpg](https://commons.wikimedia.org/wiki/File:Hooded_crow_(Corvus_cornix)_at_Gulf_of_Trieste.jpg) | Petar Milošević | [CC BY-SA 4.0](https://creativecommons.org/licenses/by-sa/4.0) |
+| Måker | [Head of European herring gull (Larus argentatus). Saint-Malo, France.jpg](https://commons.wikimedia.org/wiki/File:Head_of_European_herring_gull_(Larus_argentatus)._Saint-Malo,_France.jpg) | Ввласенко | [CC BY-SA 3.0](https://creativecommons.org/licenses/by-sa/3.0) |
+| Gråtrost | [Turdus pilaris on Crataegus in winter.jpg](https://commons.wikimedia.org/wiki/File:Turdus_pilaris_on_Crataegus_in_winter.jpg) | Anaxibia (Andrey Polstianoi) | [CC BY-SA 4.0](https://creativecommons.org/licenses/by-sa/4.0) |
+| Fasan | [Common pheasant (Phasianus colchicus) male 3.jpg](https://commons.wikimedia.org/wiki/File:Common_pheasant_(Phasianus_colchicus)_male_3.jpg) | Charles J. Sharp | [CC BY-SA 4.0](https://creativecommons.org/licenses/by-sa/4.0) |
